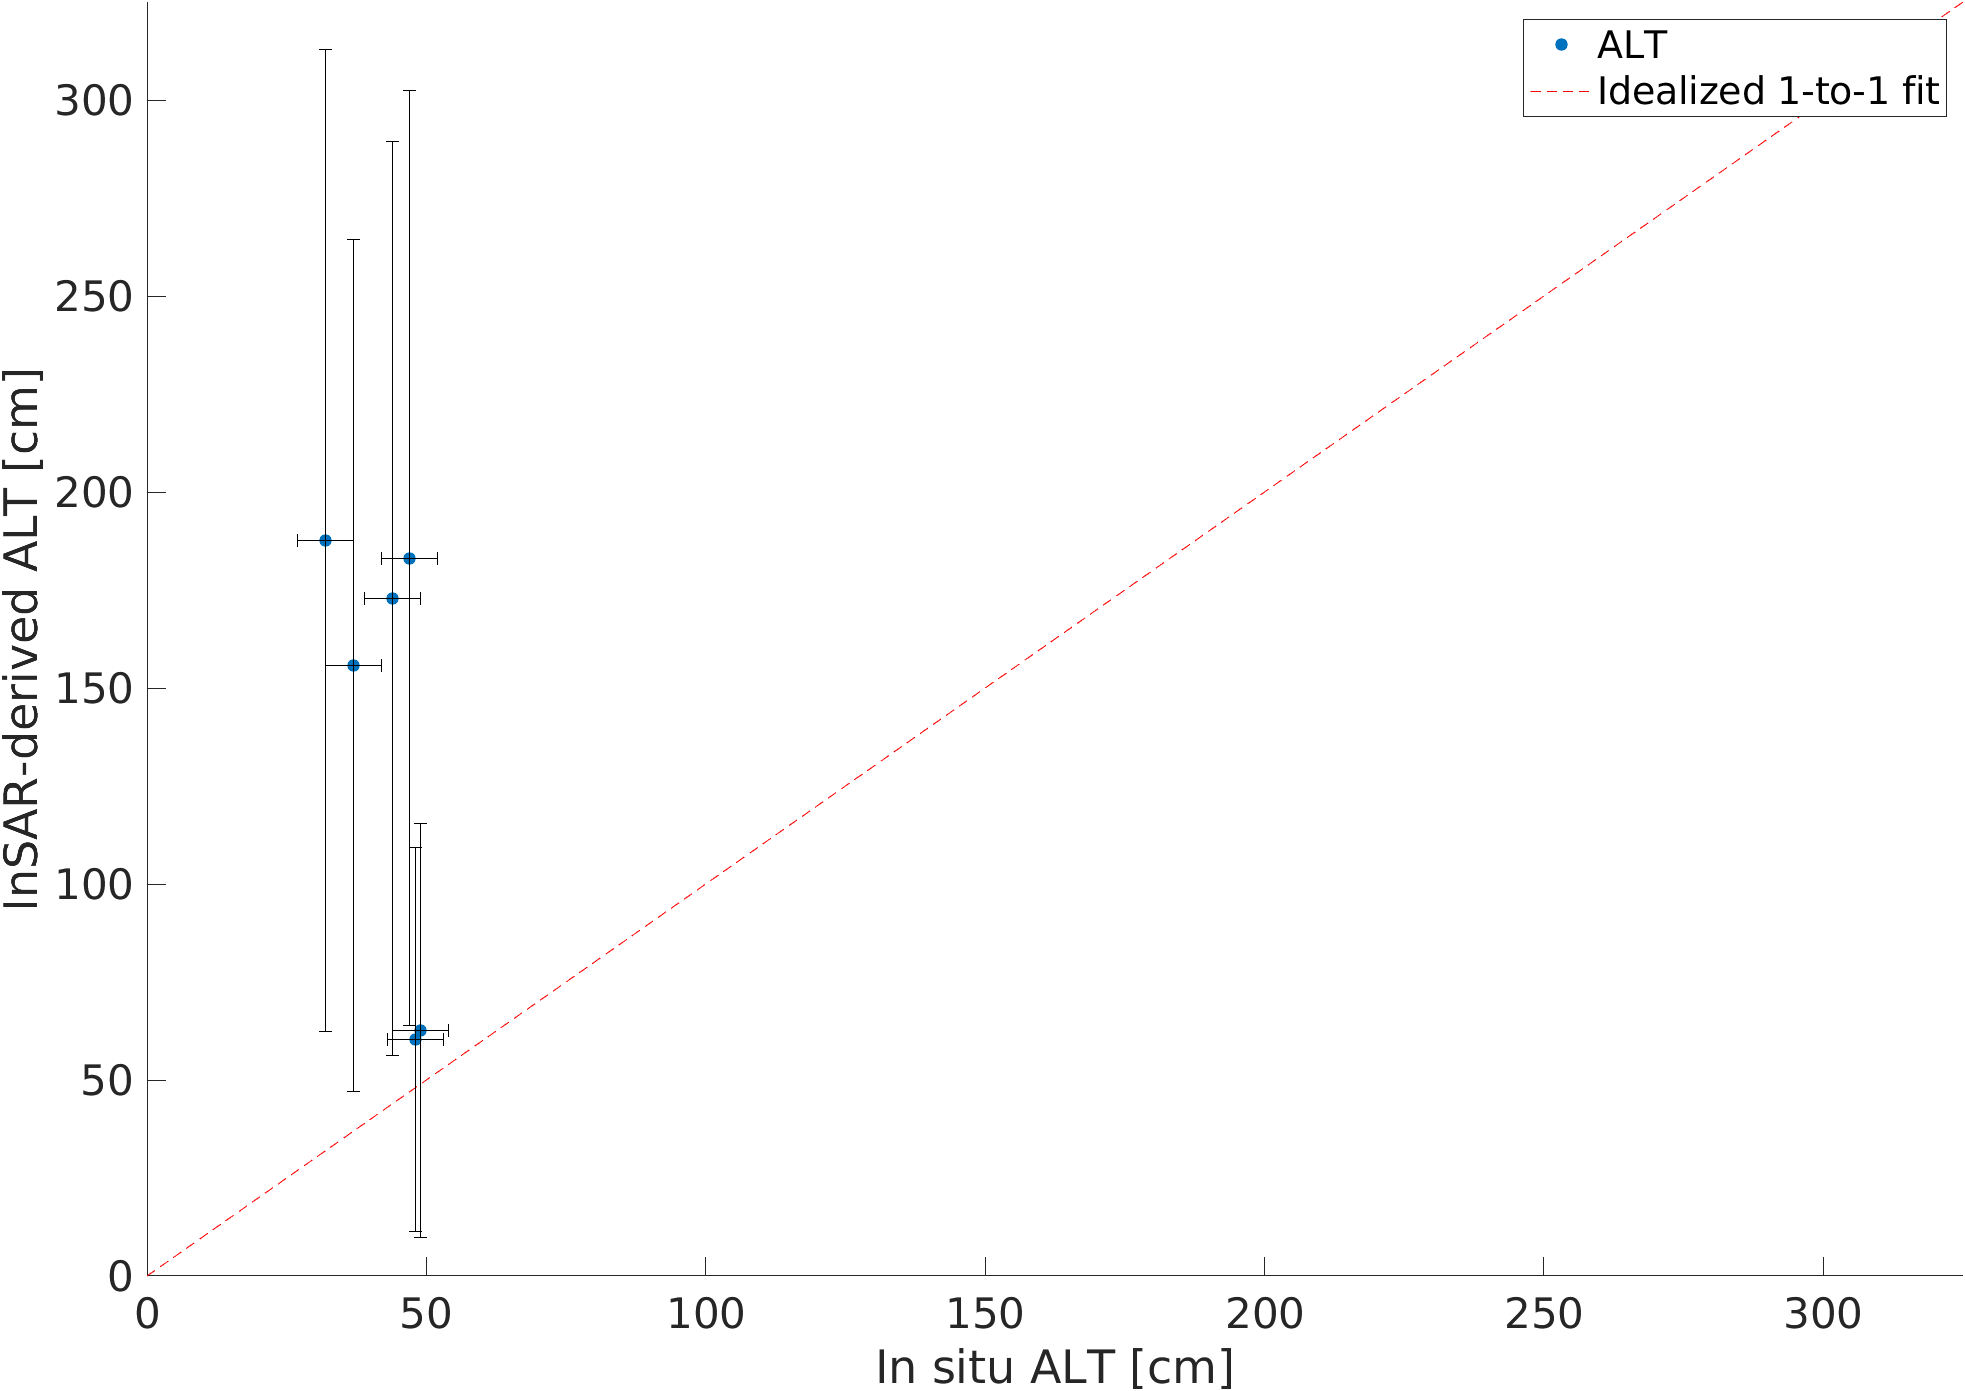
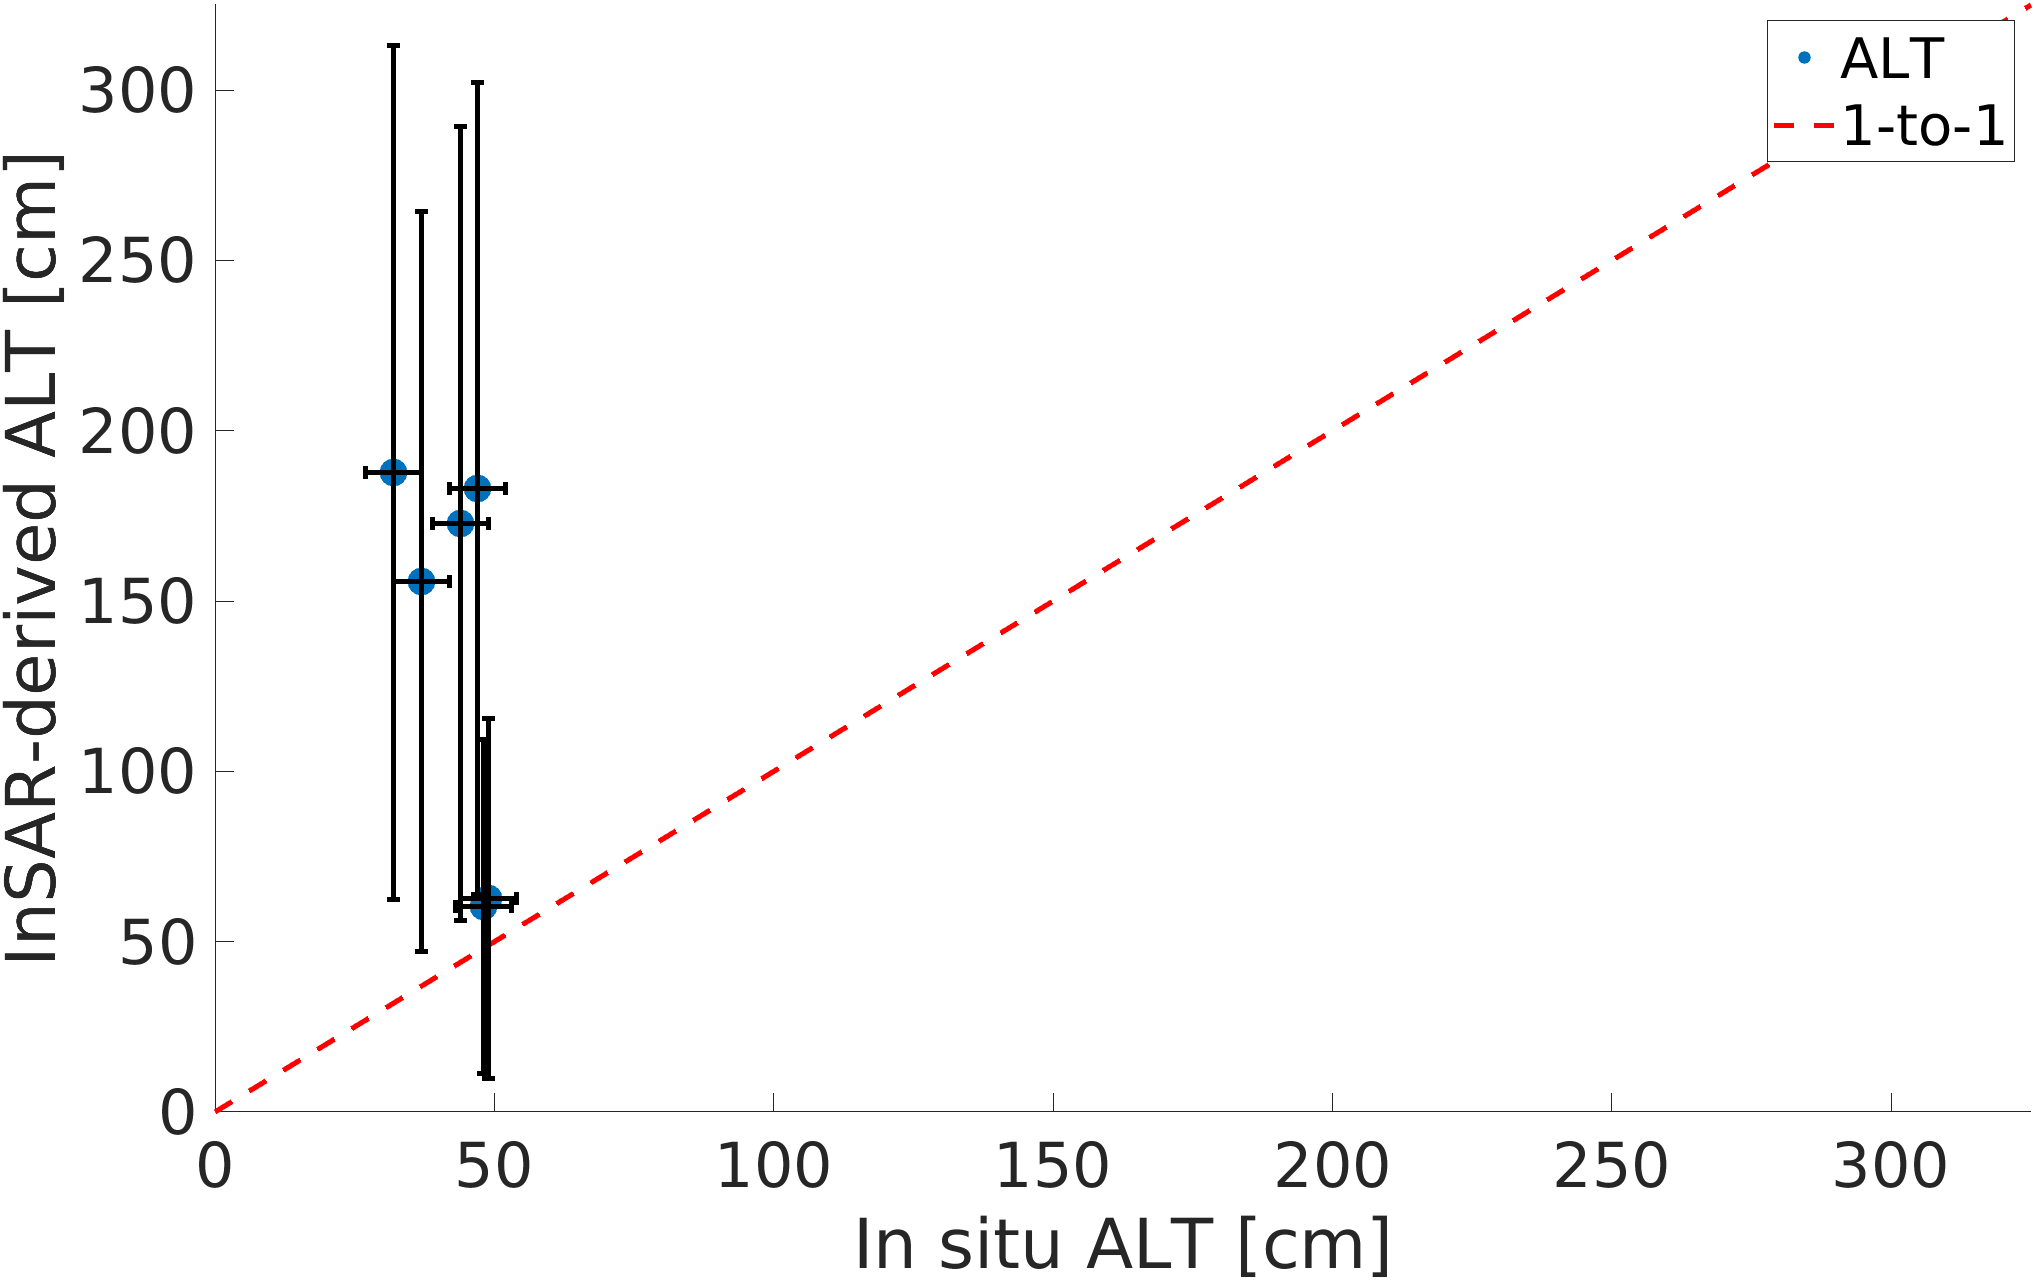
2019 Figure Updates
Increasing font sizes and line widths for various figures

diff --git a/main_processing/mintpy2019_v8_NW_drew_water/ReSALT/parse_data_one_year.m b/main_processing/mintpy2019_v8_NW_drew_water/ReSALT/parse_data_one_year.m
@@ -177,7 +177,7 @@ if freezedate > dates_datetime(num_dates)
     title([num2str(year),' Seasonal Thaw Subsidence Original Fit'])
     xlabel('Date')
     yyaxis left
-    ylabel('Elevation (cm)')
+    ylabel('Relative Elevation (cm)')
     ylim_min = min(min(min(ts_thaw_extrap(pixelX(:),pixelY(:),:))));
     ylim_max = max(max(max(ts_thaw_extrap(pixelX(:),pixelY(:),:))));
     ylim([ylim_min,ylim_max])
@@ -202,7 +202,7 @@ if freezedate > dates_datetime(num_dates)
     title([num2str(year),' Seasonal Thaw Subsidence Extrapolated Fit'])
     xlabel('Date')
     yyaxis left
-    ylabel('Elevation (cm)')
+    ylabel('Relative Elevation (cm)')
     ylim([ylim_min,ylim_max])
     yyaxis right
     ylabel('NADDT (-)')
@@ -225,7 +225,7 @@ if freezedate > dates_datetime(num_dates)
     %title([num2str(year),' Seasonal Thaw Subsidence Extrapolated Fit'])
     xlabel('Date')
     yyaxis left
-    ylabel('Elevation (cm)')
+    ylabel('Relative Elevation (cm)')
     ylim([ylim_min,ylim_max])
     yyaxis right
     ylabel('NADDT (-)')
@@ -335,7 +335,7 @@ else
     title([num2str(year),' Seasonal Thaw Subsidence Original Fit'])
     xlabel('Date')
     yyaxis left
-    ylabel('Elevation (cm)')
+    ylabel('Relative Elevation (cm)')
     ylim_min = min(min(min(ts_thaw_extrap(pixelX(:),pixelY(:),1:finaldate))));
     ylim_max = max(max(max(ts_thaw_extrap(pixelX(:),pixelY(:),1:finaldate))));
     ylim([ylim_min,ylim_max])
@@ -360,7 +360,7 @@ else
     title([num2str(year),' Seasonal Thaw Subsidence Extrapolated Fit'])
     xlabel('Date')
     yyaxis left
-    ylabel('Elevation (cm)')
+    ylabel('Relative Elevation (cm)')
     ylim([ylim_min,ylim_max])
     yyaxis right
     ylabel('NADDT (-)')
@@ -383,7 +383,7 @@ else
     %title([num2str(year),' Seasonal Thaw Subsidence Extrapolated Fit'])
     xlabel('Date')
     yyaxis left
-    ylabel('Elevation (cm)')
+    ylabel('Relative Elevation (cm)')
     ylim([ylim_min,ylim_max])
     yyaxis right
     ylabel('NADDT (-)')
@@ -1121,7 +1121,7 @@ if isfile(ALT_core_string)
     end
 
     figure
-    scatter(combined_core_table.ALT_cm,ReSALT_ALT,'filled')
+    scatter(combined_core_table.ALT_cm,ReSALT_ALT,180,'filled','o')
     hold on
 
     xlabel('In situ ALT [cm]')
@@ -1131,15 +1131,15 @@ if isfile(ALT_core_string)
     lim = round((lim + max(Error_ALT) + 10)/5)*5;
     xlim([0, lim])
     ylim([0, lim])
-    plot([0 xlim],[0 ylim],'--r')
+    plot([0 xlim],[0 ylim],'--r','LineWidth',2.5)
 
-    f = errorbar(combined_core_table.ALT_cm,ReSALT_ALT,Error_ALT,'vertical','Linestyle','none');
+    f = errorbar(combined_core_table.ALT_cm,ReSALT_ALT,Error_ALT,'vertical','Linestyle','none','LineWidth',2.5);
     f.Color = 'k';
-    e = errorbar(combined_core_table.ALT_cm,ReSALT_ALT,combined_core_table.Uncert_cm,'horizontal','linestyle','none');
+    e = errorbar(combined_core_table.ALT_cm,ReSALT_ALT,combined_core_table.Uncert_cm,'horizontal','linestyle','none','LineWidth',2.5);
     e.Color = 'k';
 
-    legend('ALT','Idealized 1-to-1 fit')
-    set(gca,'FontSize',20)
+    legend('ALT','1-to-1')
+    set(gca,'FontSize',30)
     set(gcf,'Position',[100 100 1500 1000])
     f = gcf;
     f.WindowState = 'maximized';
@@ -1209,7 +1209,7 @@ if isfile(ALT_probe_string)
     end
 
     figure
-    scatter(combined_probe_table.ALT_cm,ReSALT_ALT,'filled')
+    scatter(combined_probe_table.ALT_cm,ReSALT_ALT,180,'filled','o')
     hold on
 
     xlabel('In situ ALT [cm]')
@@ -1219,15 +1219,15 @@ if isfile(ALT_probe_string)
     lim = round((lim + max(Error_ALT) + 10)/5)*5;
     xlim([0, lim])
     ylim([0, lim])
-    plot([0 xlim],[0 ylim],'--r')
+    plot([0 xlim],[0 ylim],'--r','LineWidth',2.5)
 
-    f = errorbar(combined_probe_table.ALT_cm,ReSALT_ALT,Error_ALT,'vertical','Linestyle','none');
+    f = errorbar(combined_probe_table.ALT_cm,ReSALT_ALT,Error_ALT,'vertical','Linestyle','none','LineWidth',2.5);
     f.Color = 'k';
-    e = errorbar(combined_probe_table.ALT_cm,ReSALT_ALT,combined_probe_table.Uncert_cm,'horizontal','linestyle','none');
+    e = errorbar(combined_probe_table.ALT_cm,ReSALT_ALT,combined_probe_table.Uncert_cm,'horizontal','linestyle','none','LineWidth',2.5);
     e.Color = 'k';
 
-    legend('ALT','Idealized 1-to-1 fit')
-    set(gca,'FontSize',20)
+    legend('ALT','1-to-1')
+    set(gca,'FontSize',30)
     set(gcf,'Position',[100 100 1500 1000])
     f = gcf;
     f.WindowState = 'maximized';
@@ -1259,7 +1259,7 @@ if isfile(ALT_core_string) %check if both core and probe data exists; if so, com
         end
         
         figure
-        scatter(full_ALT_table.ALT_cm,ReSALT_ALT,'filled')
+        scatter(full_ALT_table.ALT_cm,ReSALT_ALT,180,'filled','o')
         hold on
 
         xlabel('In situ ALT [cm]')
@@ -1269,15 +1269,15 @@ if isfile(ALT_core_string) %check if both core and probe data exists; if so, com
         lim = round((lim + max(Error_ALT) + 10)/5)*5;
         xlim([0, lim])
         ylim([0, lim])
-        plot([0 xlim],[0 ylim],'--r')
+        plot([0 xlim],[0 ylim],'--r','LineWidth',2.5)
 
-        f = errorbar(full_ALT_table.ALT_cm,ReSALT_ALT,Error_ALT,'vertical','Linestyle','none');
+        f = errorbar(full_ALT_table.ALT_cm,ReSALT_ALT,Error_ALT,'vertical','Linestyle','none','LineWidth',2.5);
         f.Color = 'k';
-        e = errorbar(full_ALT_table.ALT_cm,ReSALT_ALT,full_ALT_table.Uncert_cm,'horizontal','linestyle','none');
+        e = errorbar(full_ALT_table.ALT_cm,ReSALT_ALT,full_ALT_table.Uncert_cm,'horizontal','linestyle','none','LineWidth',2.5);
         e.Color = 'k';
 
-        legend('ALT','Idealized 1-to-1 fit')
-        set(gca,'FontSize',20)
+        legend('ALT','1-to-1')
+        set(gca,'FontSize',30)
         set(gcf,'Position',[100 100 1500 1000])
         f = gcf;
         f.WindowState = 'maximized';
@@ -1357,7 +1357,7 @@ if isfile(EIC_core_string)
         Error_EIC(i,1) = error_EIC(PixelY_EIC(i,1),PixelX_EIC(i,1));
     end
     figure
-    scatter(combined_EIC_core_table.("EIC_%"),ReSALT_EIC,'filled')
+    scatter(combined_EIC_core_table.("EIC_%"),ReSALT_EIC,180,'filled','o')
     hold on
     xlabel('In situ EIC [%]')
     ylabel('InSAR-derived EIC [%]')
@@ -1365,15 +1365,15 @@ if isfile(EIC_core_string)
     lim = max(max(insitu_EIC),max(ReSALT_EIC));
     xlim([0,round((lim+10)/5)*5])
     ylim([0,round((lim+10)/5)*5])
-    plot(xlim,ylim,'--r')
+    plot(xlim,ylim,'--r','LineWidth',2.5)
 
-    f = errorbar(combined_EIC_core_table.("EIC_%"),ReSALT_EIC,Error_EIC,'vertical','Linestyle','none');
+    f = errorbar(combined_EIC_core_table.("EIC_%"),ReSALT_EIC,Error_EIC,'vertical','Linestyle','none','LineWidth',2.5);
     f.Color = 'k';
-    e = errorbar(combined_EIC_core_table.("EIC_%"),ReSALT_EIC,combined_EIC_core_table.("Uncert_%"),'horizontal','linestyle','none');
+    e = errorbar(combined_EIC_core_table.("EIC_%"),ReSALT_EIC,combined_EIC_core_table.("Uncert_%"),'horizontal','linestyle','none','LineWidth',2.5);
     e.Color = 'k';
 
-    legend('EIC','Idealized 1-to-1 fit')
-    set(gca,'FontSize',20)
+    legend('EIC','1-to-1')
+    set(gca,'FontSize',30)
     set(gcf,'Position',[100 100 1500 1000])
     f = gcf;
     f.WindowState = 'maximized';
